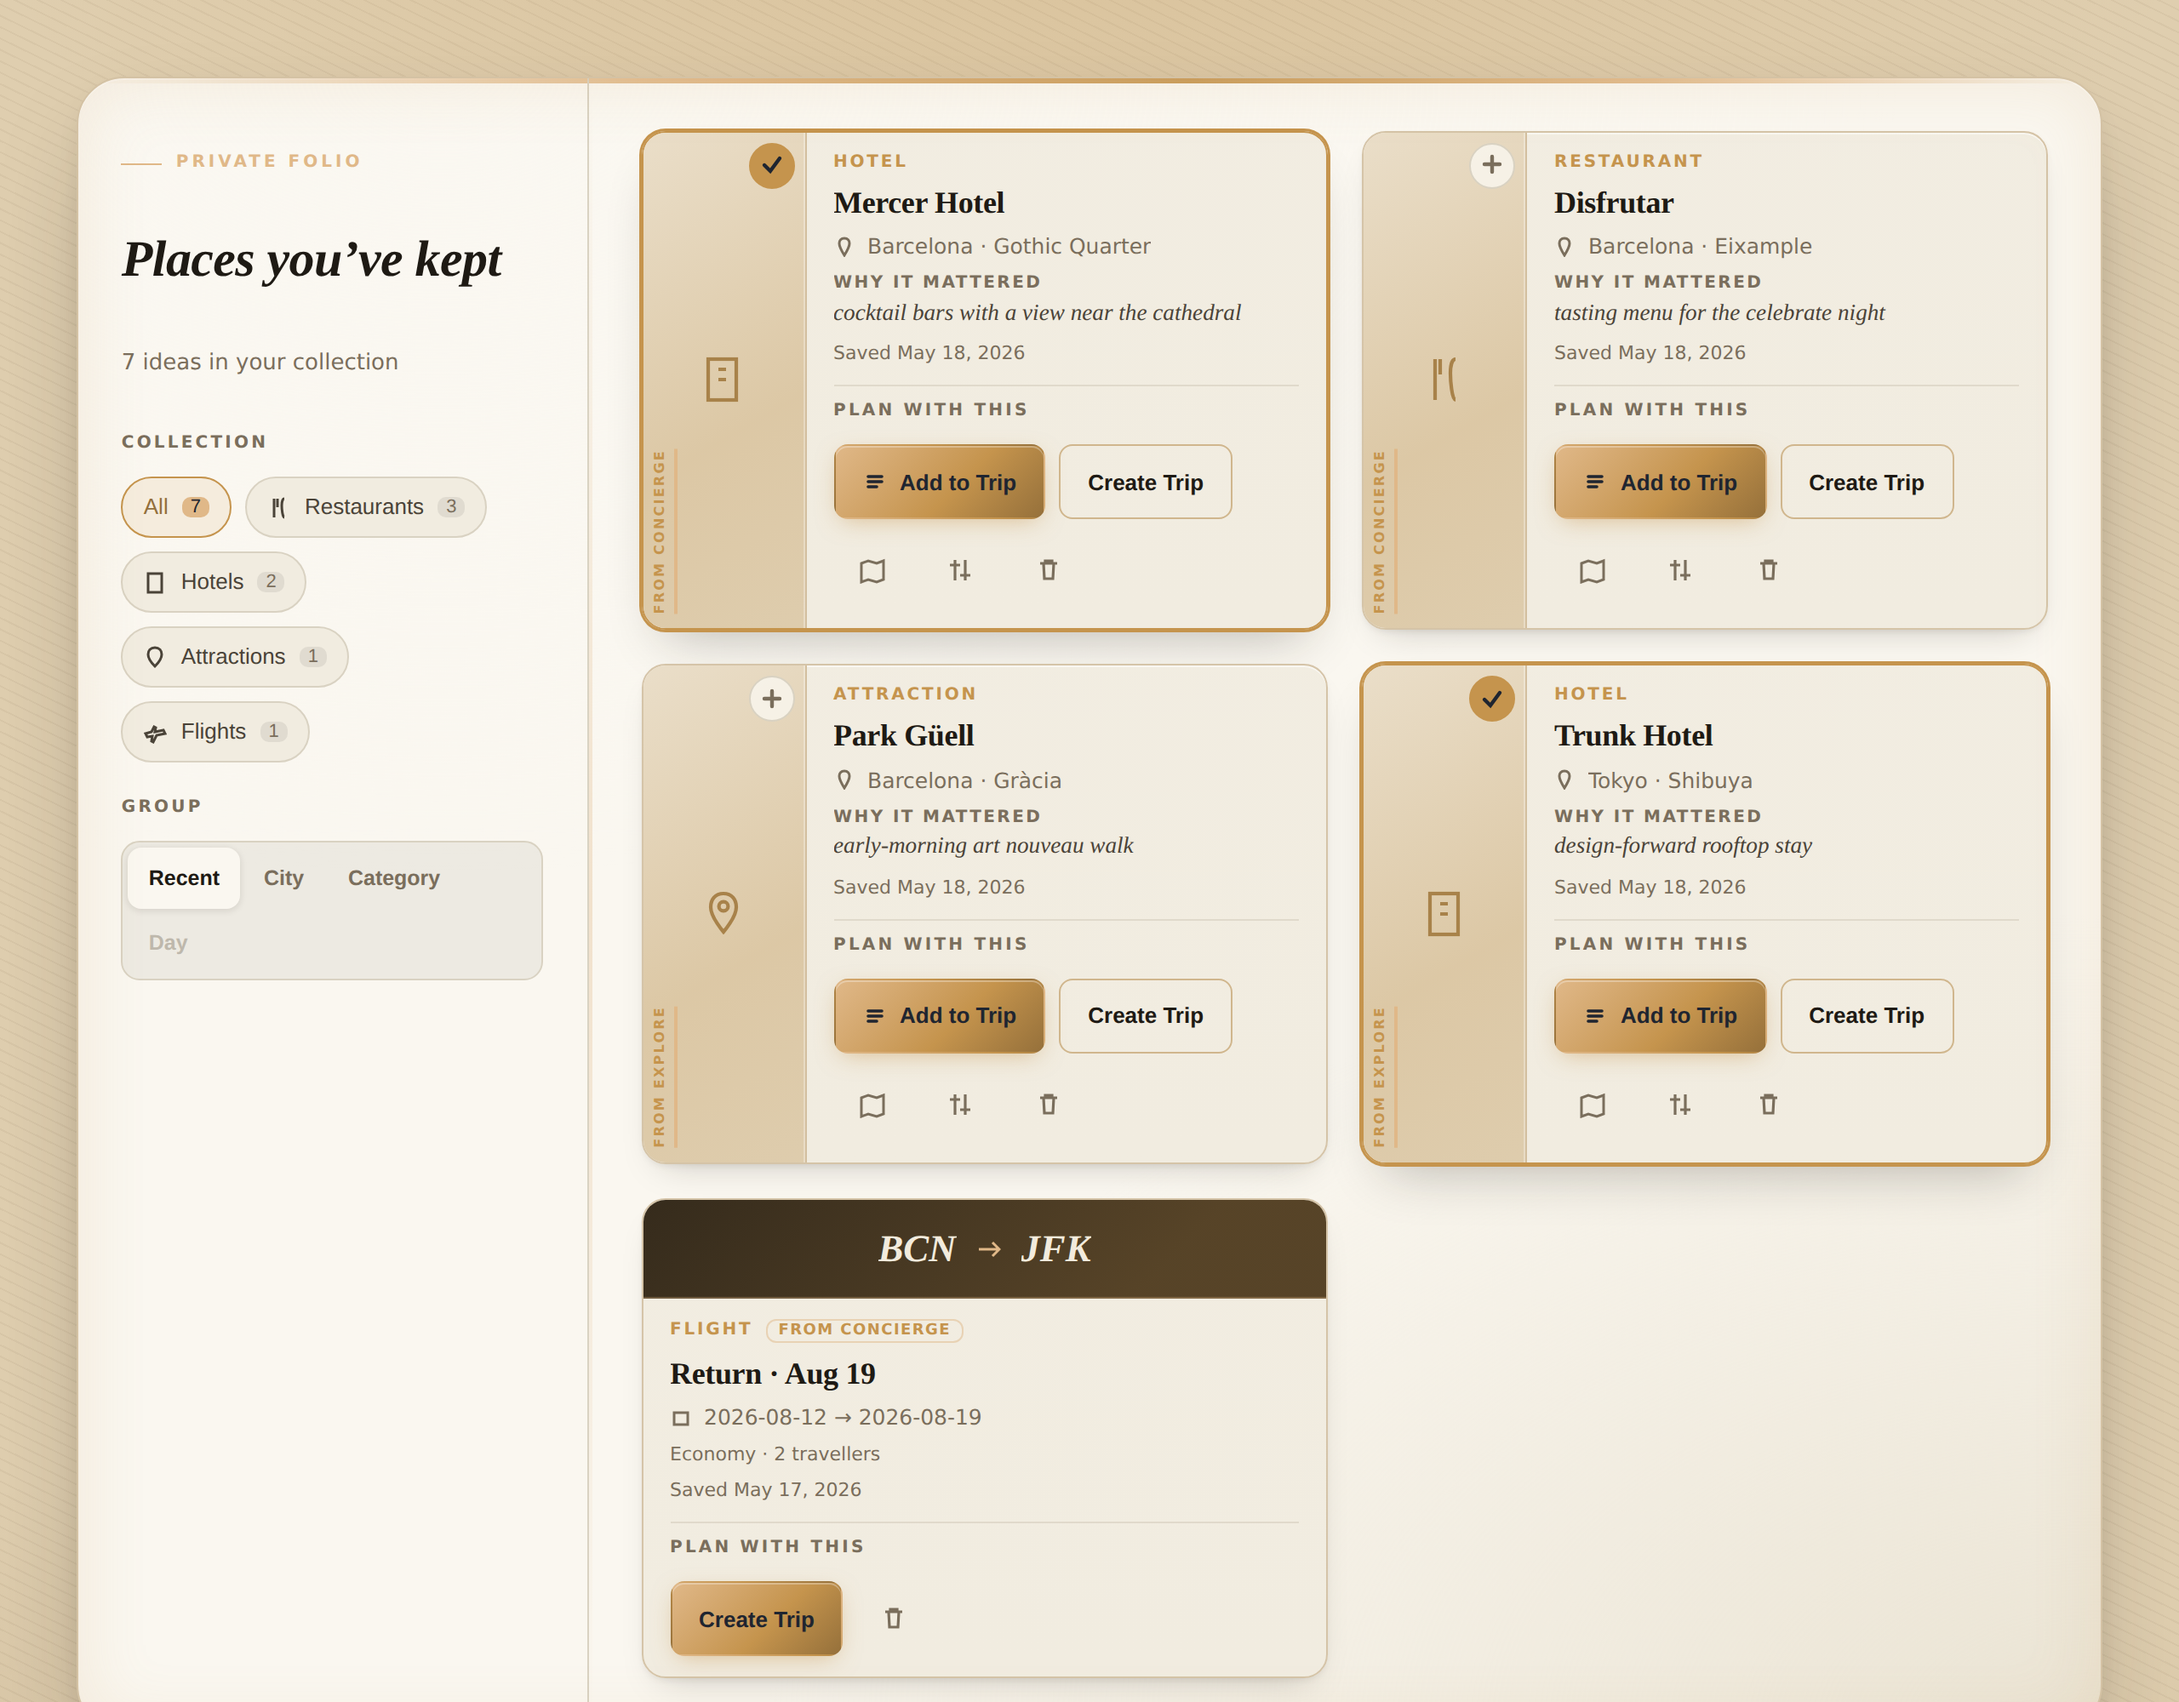
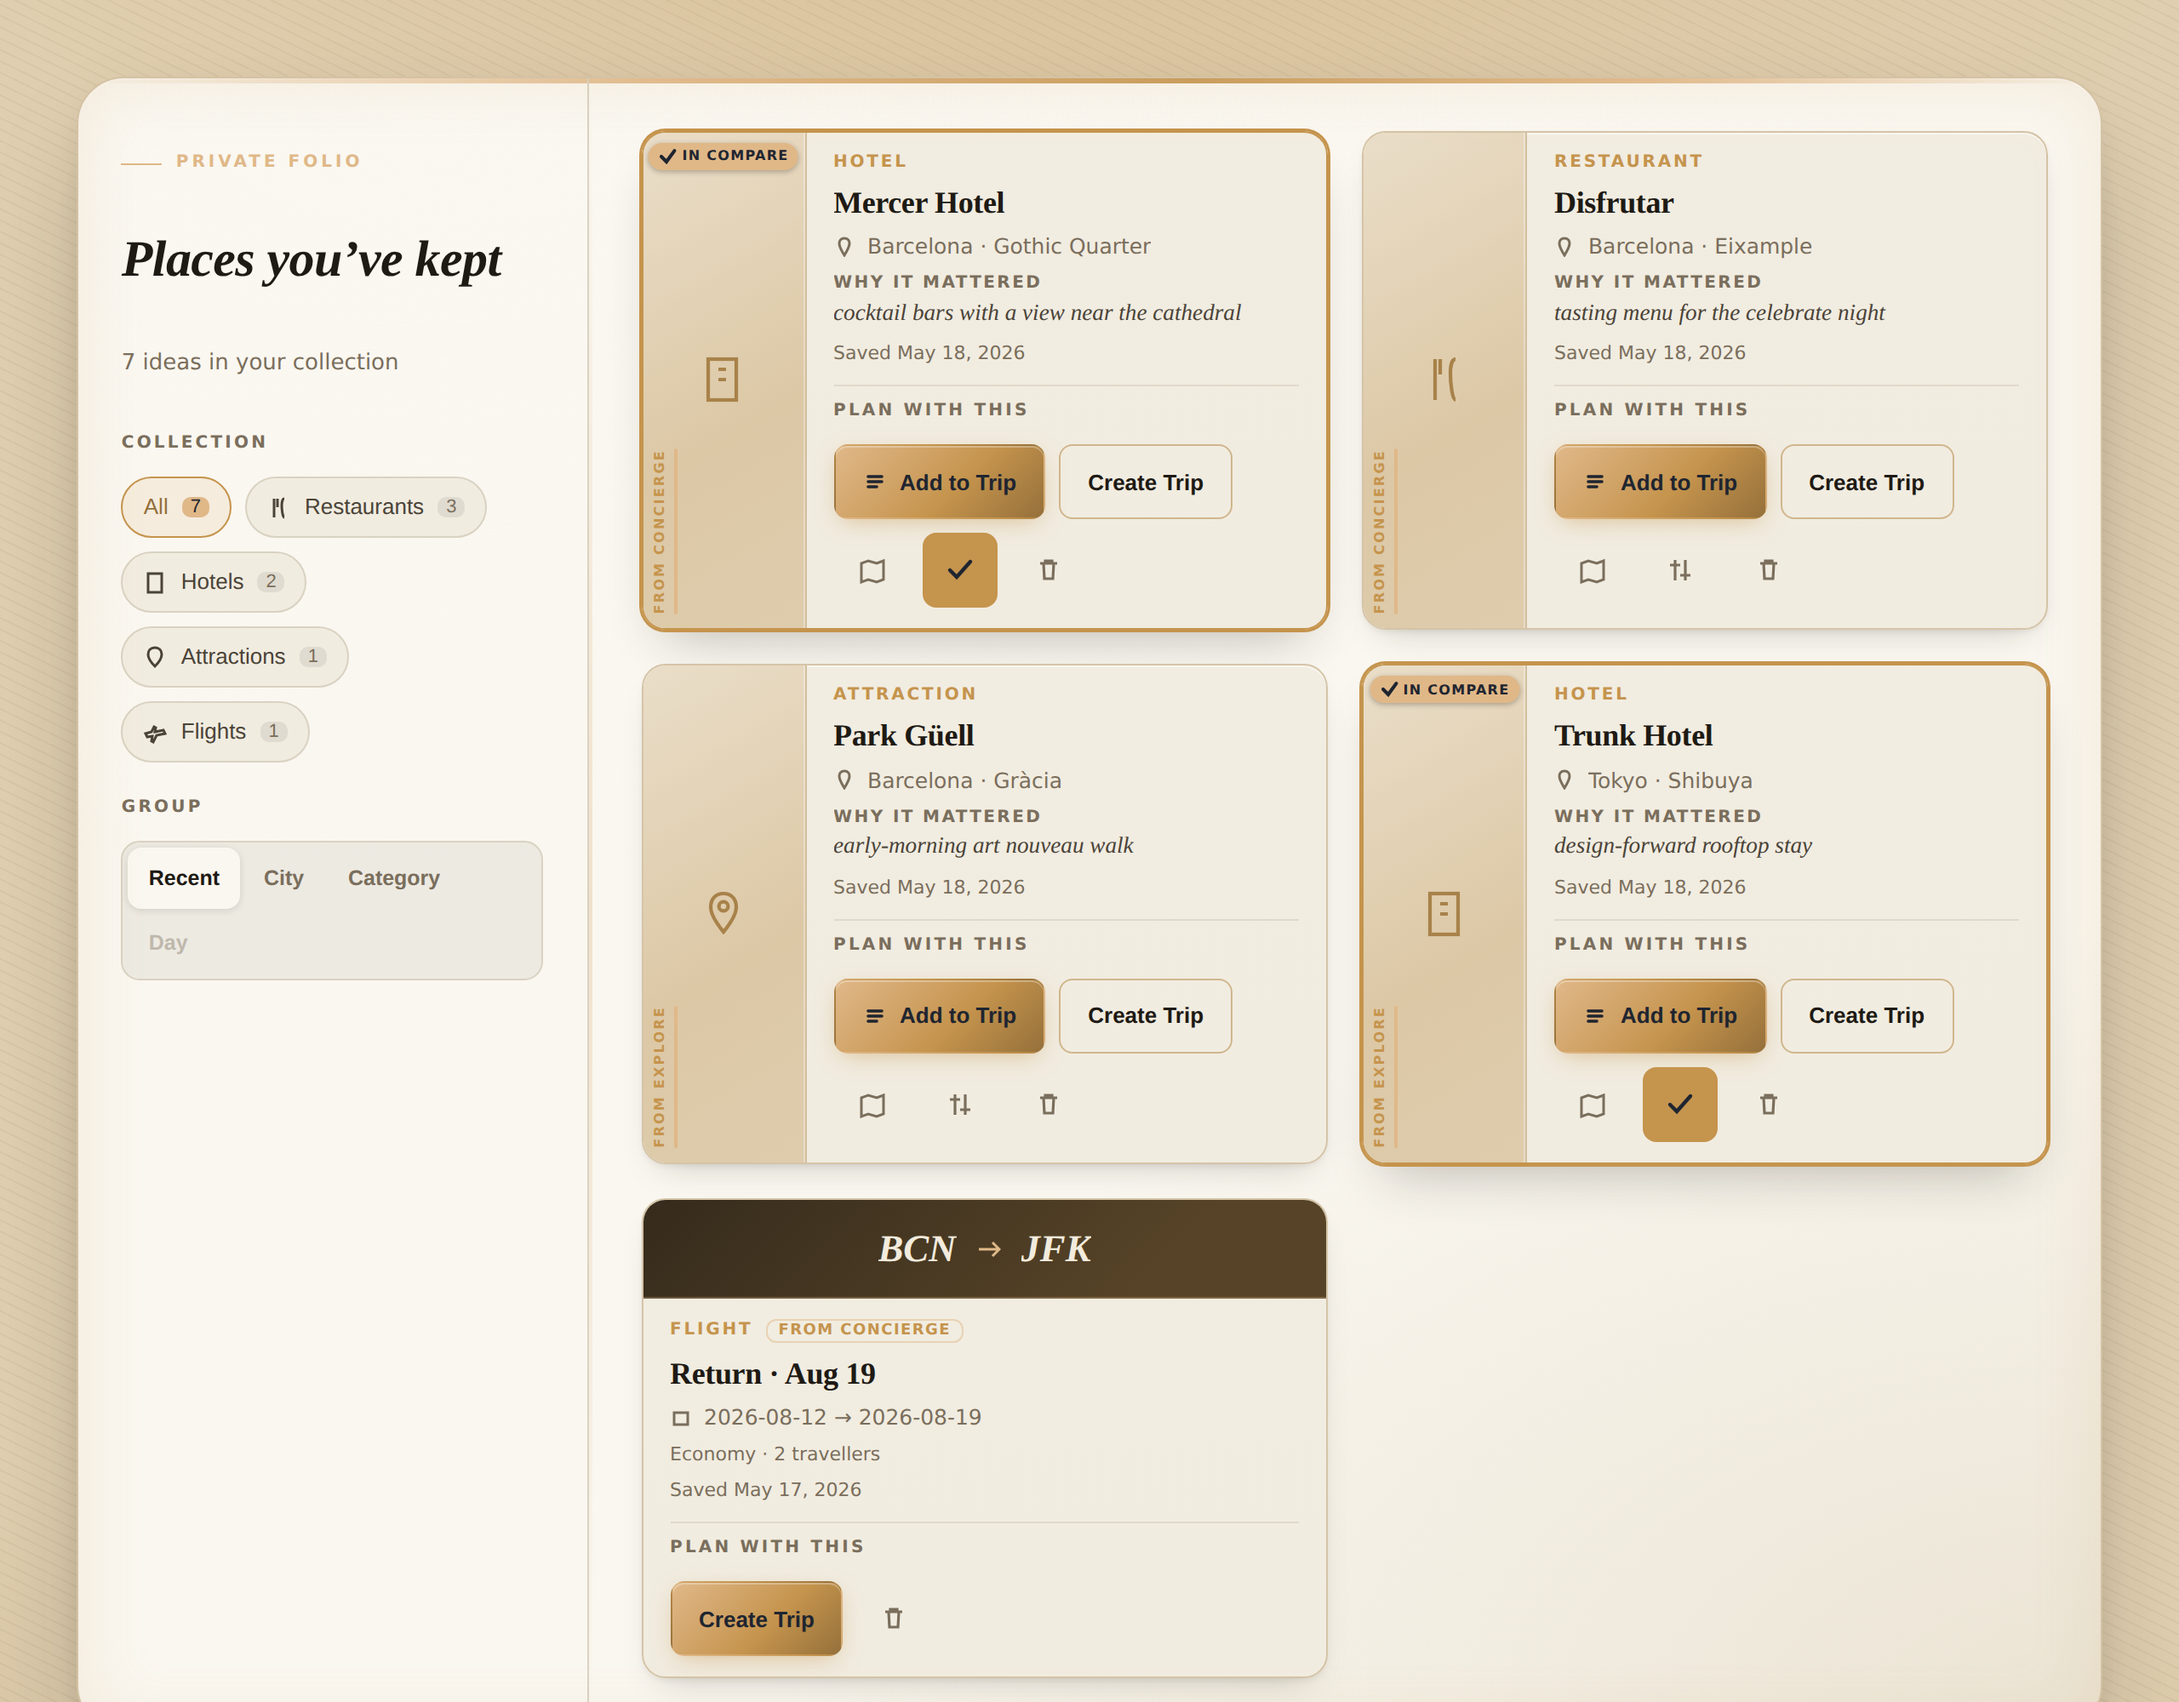
Saved Folio patch-2: single compare control + saved note in compare sheet
1. Duplicate compare control removed. Deleted the top-of-plate ComparePick
   (.folio-pick); the only compare toggle is now the bottom action-row icon
   (.folio-compare-toggle, filled gilt + check when selected). Selected cards
   show a non-interactive "In compare" gilt flag (.folio-compare-flag) plus the
   amber ring — clear in-compare state, no second control.

2. Saved note in compare. The compare sheet now shows each item's "Why it
   mattered" (the real searchContext.query) so two places can be compared by
   saved context. Card "why it mattered" display preserved.
   Editable user notes are NOT yet supported: saved_items has no note column
   and no update/PATCH endpoint or updateSavedItem API, so this patch does not
   fake persistence or add a migration — documented as the next slice.

Preserved: filter/group recomputation, Add to Trip, Create Trip, Map, Remove,
compare tray/sheet, light folio theme, card spine, flight card. No backend
changes. 3165 frontend tests, 0 failures. Evidence refreshed under
docs/ai/design/evidence/saved-folio-v1/.

https://claude.ai/code/session_016SpD151EcFzzHGaJWv99s4

diff --git a/frontend/src/components/saved/SavedShell.tsx b/frontend/src/components/saved/SavedShell.tsx
@@ -19,7 +19,6 @@ import {
   PlusCircle,
   CheckCircle2,
   Sparkles,
-  Plus,
   Check,
   GitCompare,
   X,
@@ -125,39 +124,6 @@ function formatSavedDate(iso: string): string {
 // ── Add-to-Trip state ─────────────────────────────────────────────────────────
 
 type AddState = "idle" | "picking" | "adding" | "added" | "error";
-
-// ── Compare pick control ────────────────────────────────────────────────────
-
-function ComparePick({
-  picked,
-  disabled,
-  onToggle,
-  name,
-}: {
-  picked: boolean;
-  disabled: boolean;
-  onToggle: () => void;
-  name: string;
-}) {
-  return (
-    <button
-      type="button"
-      onClick={onToggle}
-      disabled={disabled && !picked}
-      aria-pressed={picked}
-      aria-label={picked ? `Remove ${name} from compare` : `Add ${name} to compare`}
-      className="folio-pick"
-      data-testid="compare-pick"
-      data-picked={picked ? "true" : "false"}
-    >
-      {picked ? (
-        <Check className="w-3.5 h-3.5" aria-hidden="true" />
-      ) : (
-        <Plus className="w-3.5 h-3.5" aria-hidden="true" />
-      )}
-    </button>
-  );
-}
 
 // ── Planning bridge (Add to Trip / Create Trip state machine) ─────────────────
 
@@ -376,17 +342,18 @@ function PlaceDossierCard({
       data-picked={picked ? "true" : "false"}
     >
       <>
-        {/* Typeset plate — no fabricated photo. Carries the category glyph and,
-            when known, a vertical source spine tab. */}
+        {/* Typeset plate — no fabricated photo. Carries the category glyph, a
+            vertical source spine tab, and (when selected) an in-compare flag.
+            The only compare *control* is the bottom action-row icon. */}
         <div className="folio-dossier-plate" aria-hidden="true">
           {source && <span className="folio-source-tab">{source}</span>}
           <Icon className="folio-plate-glyph" />
-          <ComparePick
-            picked={picked}
-            disabled={compareFull}
-            name={name}
-            onToggle={() => onTogglePick(item.id)}
-          />
+          {picked && (
+            <span className="folio-compare-flag">
+              <Check className="w-3 h-3" aria-hidden="true" />
+              In compare
+            </span>
+          )}
         </div>
 
         <div className="folio-dossier-body">
@@ -491,10 +458,15 @@ function PlaceDossierCard({
               disabled={compareFull && !picked}
               aria-pressed={picked}
               aria-label={picked ? `Remove ${name} from compare` : `Compare ${name}`}
-              className="folio-icon-btn"
+              className="folio-icon-btn folio-compare-toggle min-w-[44px] min-h-[44px]"
+              data-picked={picked ? "true" : "false"}
               data-testid="compare-icon-btn"
             >
-              <GitCompare className="w-4 h-4" aria-hidden="true" />
+              {picked ? (
+                <Check className="w-4 h-4" aria-hidden="true" />
+              ) : (
+                <GitCompare className="w-4 h-4" aria-hidden="true" />
+              )}
             </button>
             <button
               type="button"
@@ -775,6 +747,7 @@ function CompareSheet({
             const name = snapStr(it, "name") ?? it.displayName;
             const where = snapStr(it, "address") ?? snapStr(it, "destination") ?? ctxStr(it, "destination");
             const rating = snapNum(it, "rating");
+            const why = whyItMattered(it);
             return (
               <div key={it.id} className="folio-compare-col" data-testid="compare-col">
                 <div className="folio-compare-col-plate" aria-hidden="true">
@@ -787,6 +760,15 @@ function CompareSheet({
                     <div className="folio-compare-row">
                       <span className="folio-compare-row-k">Where</span>
                       {where}
+                    </div>
+                  )}
+                  {/* Saved note/context — the real reason this place was kept, so
+                      two places can be compared by saved context. Omitted when
+                      absent (never fabricated). */}
+                  {why && (
+                    <div className="folio-compare-row" data-testid="compare-note">
+                      <span className="folio-compare-row-k">Why it mattered</span>
+                      {why}
                     </div>
                   )}
                   {rating != null && (

diff --git a/frontend/src/app/globals.css b/frontend/src/app/globals.css
@@ -8454,7 +8454,7 @@
     .atelier-salon-folio-toast { transition: opacity 320ms ease; }
     /* Saved Private Folio — drop hover transitions (durations also zeroed globally) */
     .folio-dossier-card,
-    .folio-pick,
+    .folio-compare-toggle,
     .folio-cat-chip,
     .folio-group-seg-btn,
     .folio-btn-primary,
@@ -8816,32 +8816,33 @@
     margin: 0;
   }
 
-  /* Pick / compare select control (place cards only) */
-  .folio-pick {
+  /* In-compare flag — a non-interactive selected-state badge on the plate.
+     There is no second compare control; the only toggle is the bottom action
+     icon (.folio-compare-toggle). */
+  .folio-compare-flag {
     position: absolute;
-    top: 6px; right: 6px;
-    width: 27px; height: 27px;
-    border-radius: 50%;
-    display: grid;
-    place-items: center;
-    background: color-mix(in srgb, var(--ds-warm-paper) 80%, transparent);
-    border: 1.5px solid var(--ds-hairline);
-    color: var(--ds-folio-ink-mist);
-    cursor: pointer;
-    transition: background 160ms ease, border-color 160ms ease, color 160ms ease;
+    top: 6px; left: 50%;
+    transform: translateX(-50%);
+    display: inline-flex;
+    align-items: center;
+    gap: 2px;
+    padding: 2px 6px;
+    border-radius: 999px;
+    white-space: nowrap;
+    font-size: 0.5rem;
+    letter-spacing: 0.08em;
+    text-transform: uppercase;
+    font-weight: 700;
+    color: var(--ds-ink-paper);
+    background: var(--ds-sandstone-gold);
+    box-shadow: 0 1px 3px color-mix(in srgb, var(--ds-folio-ink) 30%, transparent);
   }
-  .folio-pick::after {
-    content: "";
-    position: absolute;
-    inset: -9px; /* expands hit area to ≥44px without inflating the visual */
-  }
-  .folio-pick[data-picked="true"] {
+  /* Bottom compare toggle — the single compare control. Filled gilt when on. */
+  .folio-compare-toggle[data-picked="true"] {
     background: var(--ds-ember-brass);
     border-color: var(--ds-ember-brass);
     color: var(--ds-ink-paper);
   }
-  .folio-pick:disabled { opacity: 0.4; cursor: not-allowed; }
-  .folio-pick:focus-visible { outline: 2px solid var(--ds-sandstone-gold); outline-offset: 2px; }
 
   /* Action bridge + buttons */
   .folio-dossier-actions {

diff --git a/docs/ai/HANDOFF.md b/docs/ai/HANDOFF.md
@@ -20,6 +20,7 @@ Reskins `/saved` from the prior dark "cinema scrapbook" into the **Private Folio
 - **Compare:** client-side only, **place verticals only, max 4**. `folio-compare-tray` (light shelf, clears the floating nav + safe-area, open gated until ≥2) opens `folio-compare-sheet` showing only saved facts (Where / Type / Rating-if-real / Saved) — no invented price/score/ranking.
 - **Preserved behavior + testids:** `listSavedItems`/`deleteSavedItem`/`fetchTrips`/`addSavedItemToTrip`, the add-to-trip state machine (picking/adding/added/error), CreateTripFromSavedModal, hotel discovery context, and every locked testid.
 - **patch-1 (review fixes):** (1) filter/group state hardened — visible collection is one pure `buildVisibleGroups(items, activeCat, groupMode)` derivation from the full array (filter→group), sections keyed by `${activeCat}:${groupMode}:${key}` so switching never leaves remnants (no refresh needed); (2) primary CTAs + selection/focus accents moved off marine to the warm **gilt/amber** folio palette (sandstone-gold→ember-brass, ink-paper text) — the Saved surface carries no blue (per PK direction); richer desk/paper depth (leather table contrast, layered warm shadows, inner highlight); (3) **card spine fixed** — dropped the `Card.Identity` flex wrapper (Tailwind `flex` in the utilities layer was overriding the grid, collapsing the plate to a clipped corner); the dossier card itself is now the `96px 1fr` grid with a full-height left rail; flight card is a flex column. Evidence: `docs/ai/design/evidence/saved-folio-v1/`.
+- **patch-2 (compare UX + notes):** removed the duplicate top-of-plate compare control (`ComparePick`/`.folio-pick` deleted) — the **single** compare toggle is now the bottom action-row icon (`.folio-compare-toggle`, filled gilt + check when selected); selected cards show a non-interactive "In compare" gilt flag (`.folio-compare-flag`) + the amber ring. The **compare sheet now shows each item's saved note** ("Why it mattered" = real `searchContext.query`) so two places compare by saved context. **Editable user notes are NOT yet supported** — `saved_items` has no note/description column and there is no update/PATCH endpoint or `updateSavedItem` API; this patch does not fake persistence or add a migration. Next slice: add a `note` column + PATCH `/saved-items/{id}` + `updateSavedItem` to make "Your note" editable.
 - **Architecture:** Saved reclassified cinema→paper. `unified-folio-cinema-architecture` + 6 prior visual-identity test files updated in place ("assertions that legitimately moved"); behavior assertions retained. New `tests/saved-private-folio-v1.test.mjs` (14) locks source labels, why-from-query, compare cap/place-only, flight variant, Day-disabled, immersive shell, no-drift. **3159 frontend tests, 0 failures.** node_modules absent locally → tsc/next build/lint via CI `certify`; no headless browser for the live app (approved prototype screenshots are the design-intent reference).
 
 ### Explore Observatory v1 — /explore premium reskin (current branch)
